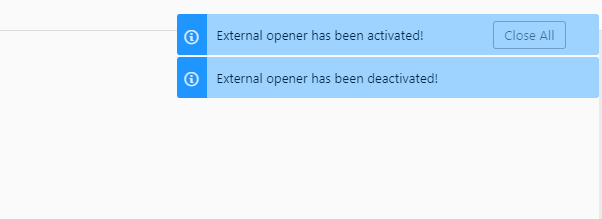
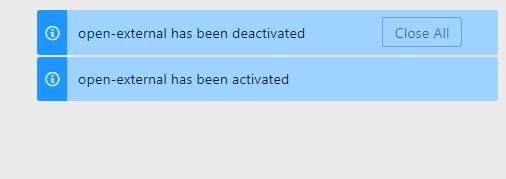
update pics & split openers

Changed region(s): [[0.0593, 0.0559, 1.0, 0.5866], [0.7708, 0.1397, 0.9486, 0.2235]]

diff --git a/lib/main.js b/lib/main.js
@@ -2,23 +2,25 @@
 
 import { CompositeDisposable } from 'atom'
 import { shell } from 'electron'
-import fs from "fs"
 import path from 'path'
+import fs from "fs"
 import cp from "child_process"
 
 export default {
 
   config: {
     flag: {
-      title: "Toggle state of external opener",
-      description: "External opener can be turn ON/OFF depend like you want use it",
+      order: 1,
+      title: 'Toggle state of external opener',
+      description: 'External opener can be turn ON/OFF depend like you want use it',
       type: 'boolean',
       default: true,
     },
     list: {
-      title: "Unsupported extensions",
-      description: "List of file extensions which will be open external by default, without dot and separated by comma",
-      type: "array",
+      order: 2,
+      title: 'Unsupported extensions',
+      description: 'List of file extensions which will be open external by default, without dot and separated by comma',
+      type: 'array',
       default: ['doc','docx','xls','xlsx','ppt','pptx','rtf','exe','dwg','dxf','sofistik','cdb','plb'],
     },
   },
@@ -30,15 +32,15 @@ export default {
         'open-external:toggle-unsupported-flag': () => {
           atom.config.set('open-external.flag', value = !atom.config.get('open-external.flag'))
           if (value) {
-            atom.notifications.addInfo('External opener has been activated')
+            atom.notifications.addInfo('open-external has been activated')
           } else {
-            atom.notifications.addInfo('External opener has been deactivated')
+            atom.notifications.addInfo('open-external has been deactivated')
           }
         },
       }),
       atom.commands.add('atom-text-editor, .image-view, .pdf-viewer', {
-        'open-external:open-external': () => this.openExternal(),
-        'open-external:show-in-folder': () => this.showInFolder(),
+        'open-external:open-external': () => this.editorOpenExternal(),
+        'open-external:show-in-folder': () => this.editorShowInFolder(),
       }),
       atom.commands.add('.platform-win32 .image-view', {
         'open-external:edit-in-paint': () => this.editInPaint(),
@@ -52,15 +54,13 @@ export default {
         'open-external:open-TeX-PDF-external': () => this.texOpenPDF(2),
       }),
       atom.config.observe('open-external.flag', (value) => {
-        this.UF_flag = value
+        this.flag = value
       }),
       atom.config.observe('open-external.list', (value) => {
-        this.UF_list = value
+        this.list = value
       }),
       atom.workspace.addOpener((uri) => {
-        if (!this.UF_flag) {
-          return
-        } else if (this.UF_list.includes(path.extname(uri).substring(1))) {
+        if (this.flag && this.list.includes(path.extname(uri).substring(1))) {
           return shell.openPath(uri)
         }
       }),
@@ -75,47 +75,57 @@ export default {
     this.treeView = object
   },
 
-  openExternal() {
-    let editor = atom.workspace.getActivePaneItem()
-    shell.openPath(editor.getPath())
+  openExternal(itemPath) {
+    shell.openPath(itemPath)
+  },
+
+  showInFolder(itemPath) {
+    shell.showItemInFolder(itemPath)
+  },
+
+  editorOpenExternal() {
+    let editor = atom.workspace.getActiveTextEditor()
+    this.openExternal(editor.getPath())
+  },
+
+  editorShowInFolder() {
+    let editor = atom.workspace.getActiveTextEditor()
+    this.showInFolder(editor.getPath())
   },
 
   treeOpenExternal() {
     let selectedPaths = this.treeView.selectedPaths()
-    for (let itemPath of selectedPaths) { shell.openPath(itemPath) }
-  },
-
-  showInFolder() {
-    let editor = atom.workspace.getActivePaneItem()
-    shell.showItemInFolder(editor.getPath())
+    for (let itemPath of selectedPaths) { this.openExternal(itemPath) }
   },
 
   treeShowInFolder() {
     let selectedPaths = this.treeView.selectedPaths()
-    for (let itemPath of selectedPaths) { shell.showItemInFolder(itemPath) }
+    for (let itemPath of selectedPaths) { this.showInFolder(itemPath) }
   },
 
   texOpenPDF(mode) {
     let editor = atom.workspace.getActiveTextEditor()
+    if (!editor) { return }
     let editorPath = editor.getPath()
+    if (!editorPath) { return }
     if (editorPath.slice(-4)!=='.tex') {
-      atom.notifications.addError(`Can not open PDF file of "${editorPath}", because it is not .tex file`)
-      return
+      return atom.notifications.addError(`Can not open PDF file of "${editorPath}", because it is not .tex file`)
     }
     let pdfPath = editorPath.slice(0, -4).concat('.pdf')
     if (!fs.existsSync(pdfPath)) {
-      atom.notifications.addError(`Can not open PDF file "${pdfPath}", because it does not exists`)
-      return
+      return atom.notifications.addError(`Can not open PDF file "${pdfPath}", because it does not exists`)
     } else if (mode===1) {
-        atom.workspace.open(pdfPath)
+      atom.workspace.open(pdfPath)
     } else if (mode===2) {
-        shell.openPath(pdfPath)
+      shell.openPath(pdfPath)
     }
   },
 
   editInPaint() {
     let editor = atom.workspace.getActivePaneItem()
+    if (!editor) { return }
     let filePath = editor.getPath()
+    if (!editorPath) { return }
     cp.exec(`mspaint "${filePath}"`, () => {})
   },
 }
